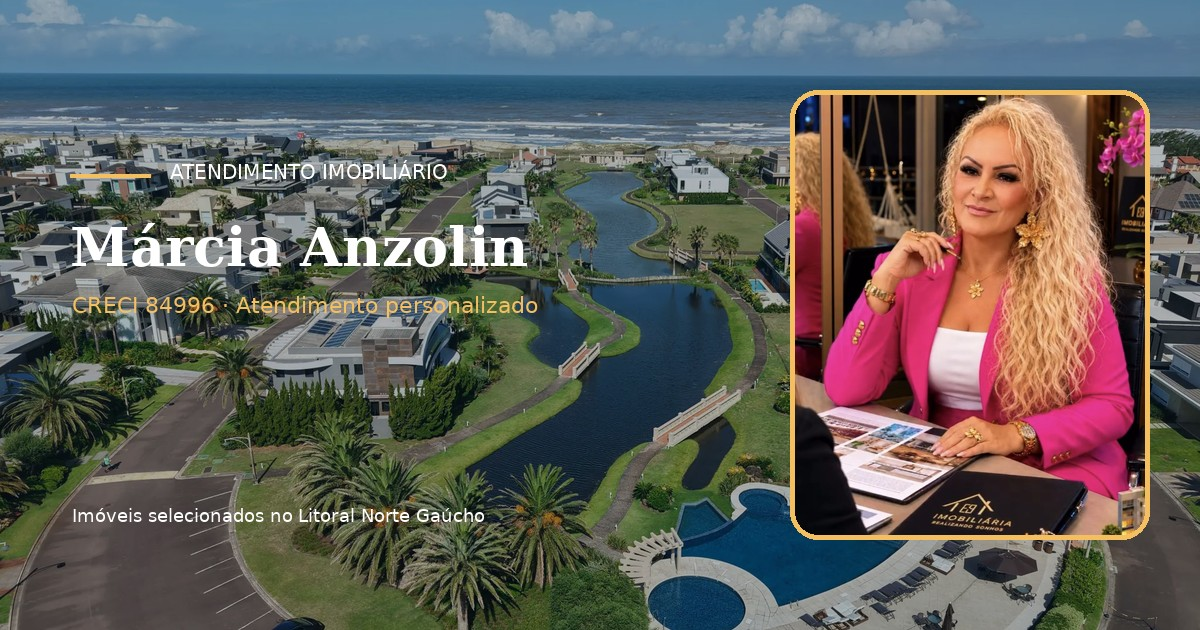
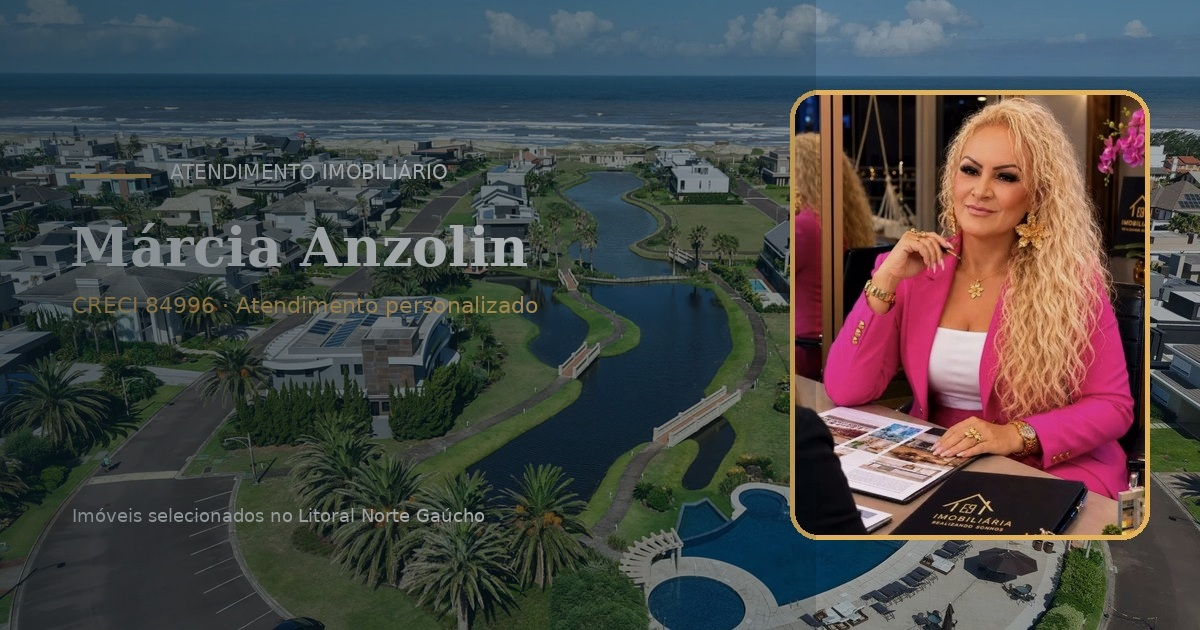
Melhora contraste das previas dos corretores

diff --git a/tools/boost_og_contrast.py b/tools/boost_og_contrast.py
@@ -1,0 +1,23 @@
+from pathlib import Path
+from PIL import Image, ImageEnhance
+
+root = Path(__file__).resolve().parents[1] / "img" / "corretores" / "og"
+for path in sorted(root.glob("*.jpg")):
+    image = Image.open(path).convert("RGB")
+    width, height = image.size
+    # Darken the complete artwork slightly, then add a stronger left-side veil
+    # where the name, CRECI and supporting copy are placed.
+    image = ImageEnhance.Brightness(image).enhance(0.93)
+    veil = Image.new("RGBA", (width, height), (0, 0, 0, 0))
+    pixels = veil.load()
+    for x in range(width):
+        if x < int(width * 0.68):
+            # strongest under text, fading smoothly toward the profile photo
+            alpha = int(122 - (x / (width * 0.68)) * 82)
+        else:
+            alpha = 0
+        for y in range(height):
+            pixels[x, y] = (4, 20, 28, alpha)
+    image = Image.alpha_composite(image.convert("RGBA"), veil).convert("RGB")
+    image.save(path, quality=94, optimize=True, progressive=True)
+    print(path.name)
